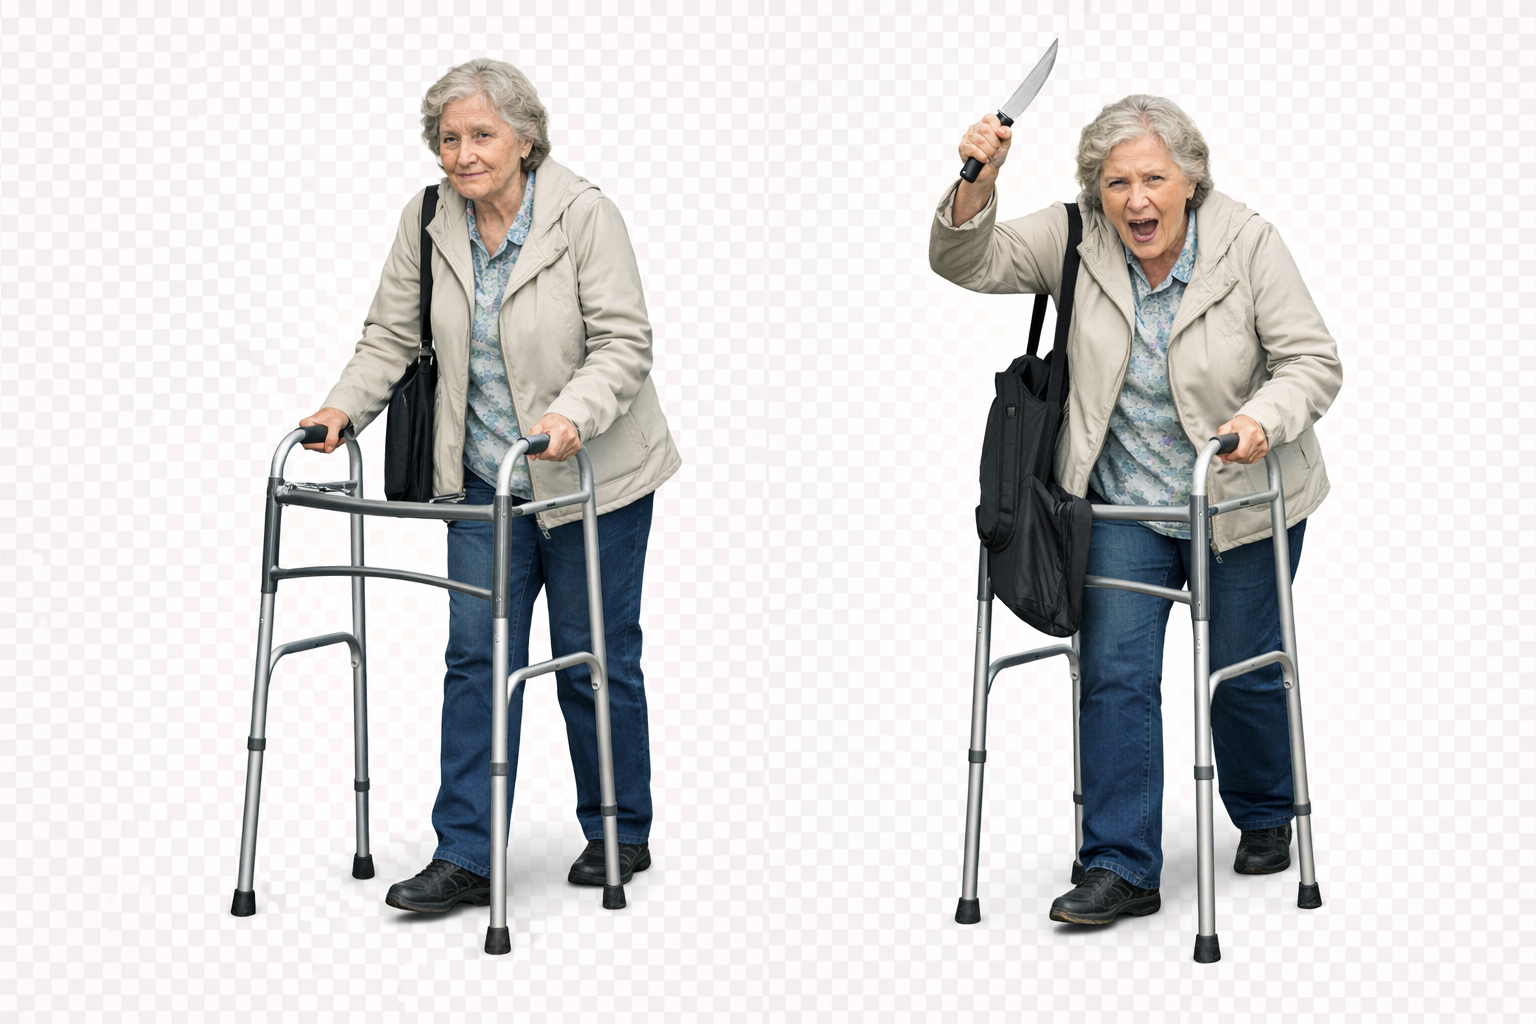
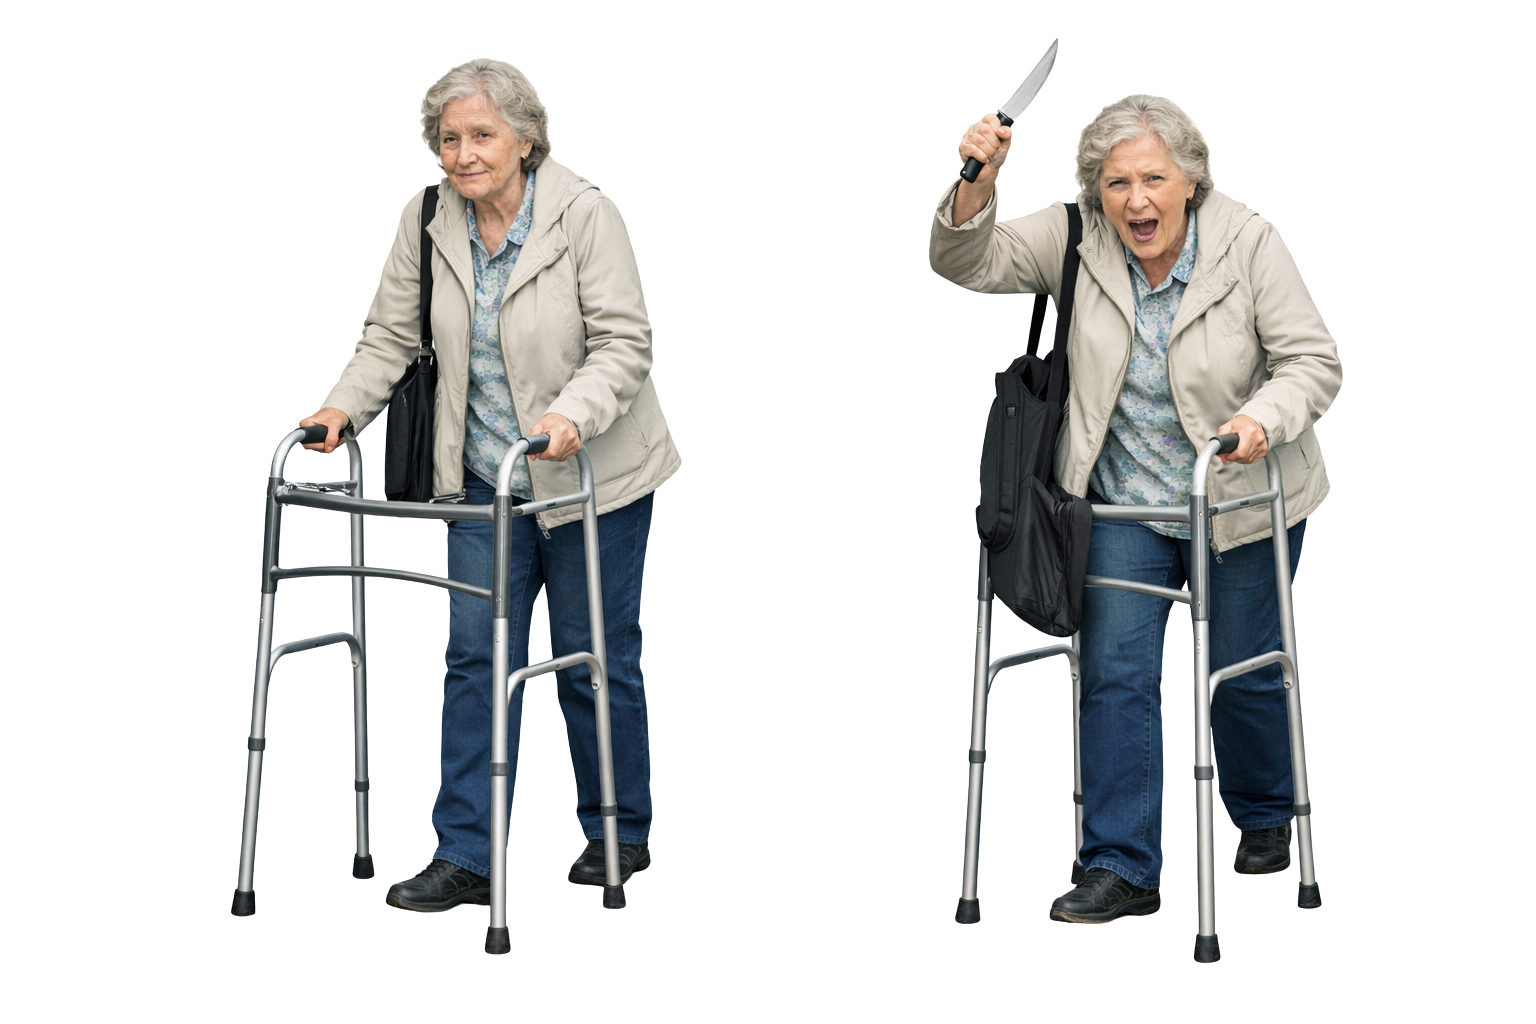
Add tree-based menu with folders, back navigation, and mixed items

Changed region(s): [[0.2188, 0.8125, 0.4375, 0.9375], [0.6562, 0.7812, 0.8438, 0.9375]]

diff --git a/assets/games/shootdontshoot/shootdontshoot.py b/assets/games/shootdontshoot/shootdontshoot.py
@@ -35,9 +35,11 @@ class ShootDontShootGame:
 
         self._scaled_cache: dict[tuple[int, int], pygame.Surface] = {}
 
-        # Betydligt mindre storlekar än tidigare
-        self.min_scale = 0.02
-        self.max_scale = 0.10
+        # Justerad skala efter din screenshot:
+        # svart = nära = större
+        # vitt = långt bort = mindre
+        self.min_scale = 0.12
+        self.max_scale = 0.45
 
     def on_enter(self) -> None:
         self.font_big = pygame.font.Font(None, 96)
@@ -91,6 +93,7 @@ class ShootDontShootGame:
                 }
             )
 
+        # Rita bakifrån till framifrån
         self.active_slots.sort(key=lambda s: s["hotspot"]["cy"])
 
     def handle_event(self, event: pygame.event.Event):
@@ -180,6 +183,8 @@ class ShootDontShootGame:
                 continue
 
             img = pygame.image.load(str(path)).convert_alpha()
+            img = self._make_white_transparent(img)
+
             w, h = img.get_size()
             half = w // 2
 
@@ -200,6 +205,25 @@ class ShootDontShootGame:
             )
 
         return out
+
+    def _make_white_transparent(self, surf: pygame.Surface) -> pygame.Surface:
+        """
+        Gör nästan-vita bakgrunder transparenta.
+        Detta hjälper om vissa PNG-filer egentligen saknar riktig alpha.
+        """
+        result = surf.copy().convert_alpha()
+        w, h = result.get_size()
+
+        for y in range(h):
+            for x in range(w):
+                c = result.get_at((x, y))
+                if c.a == 0:
+                    continue
+
+                if c.r >= 245 and c.g >= 245 and c.b >= 245:
+                    result.set_at((x, y), (255, 255, 255, 0))
+
+        return result
 
     def _make_silhouette(self, friendly: pygame.Surface, hostile: pygame.Surface) -> pygame.Surface:
         w = max(friendly.get_width(), hostile.get_width())
@@ -268,8 +292,6 @@ class ShootDontShootGame:
                 if not too_close:
                     hotspots.append(candidate)
 
-        # Rensa bort punkter högt upp om du vill ha "stående på golv"-känsla
-        # Men behåll allt just nu för att vara neutral.
         hotspots.sort(key=lambda hs: hs["cy"])
         return hotspots
 
